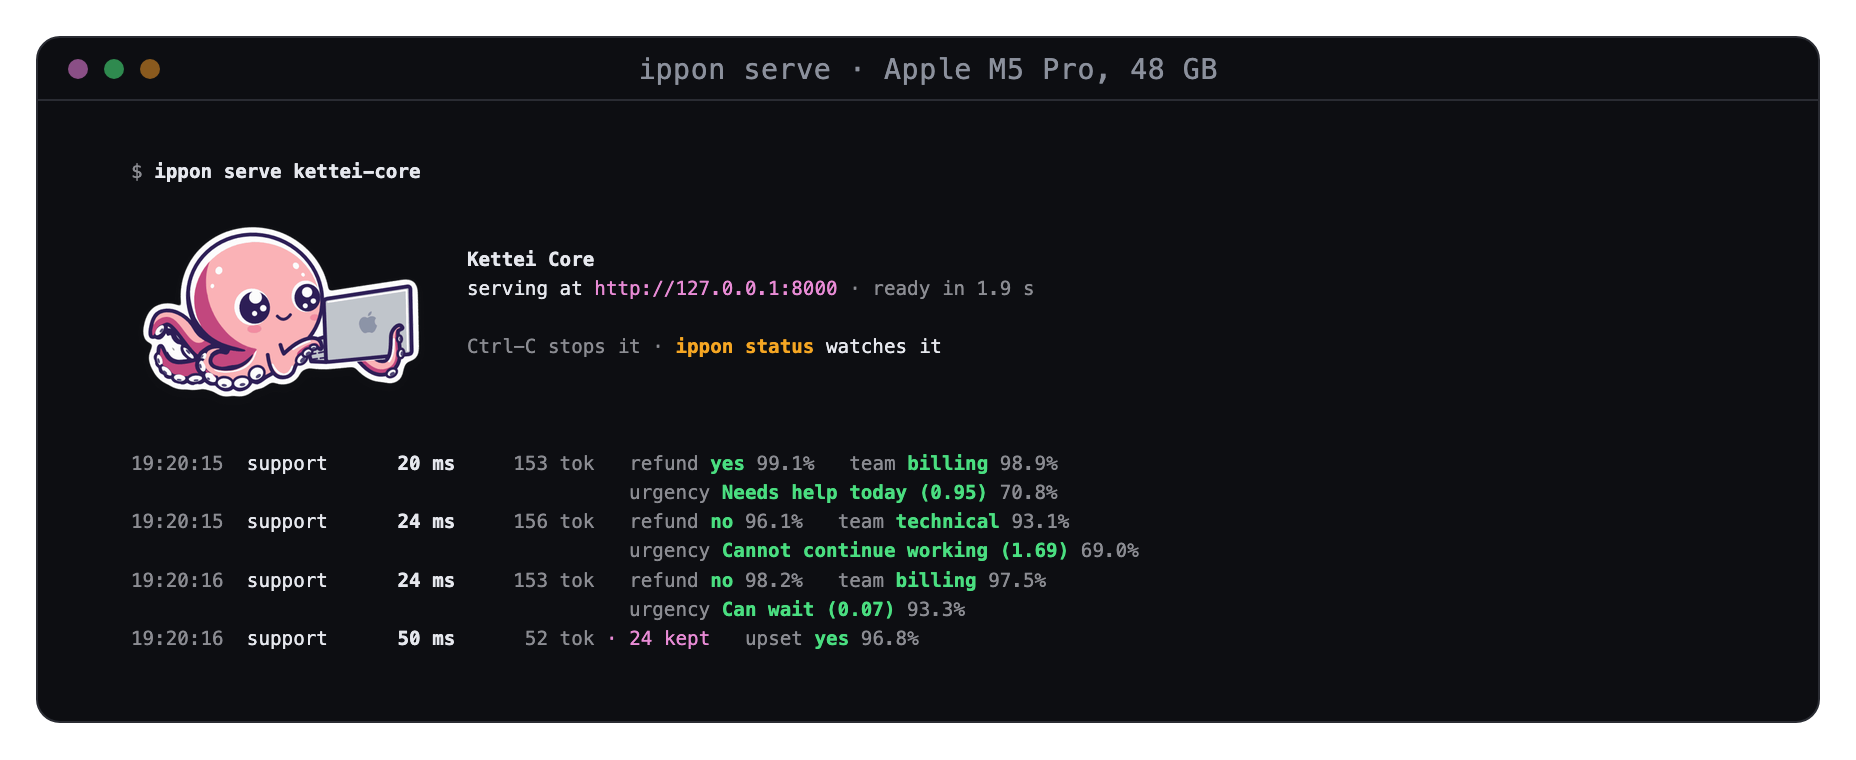
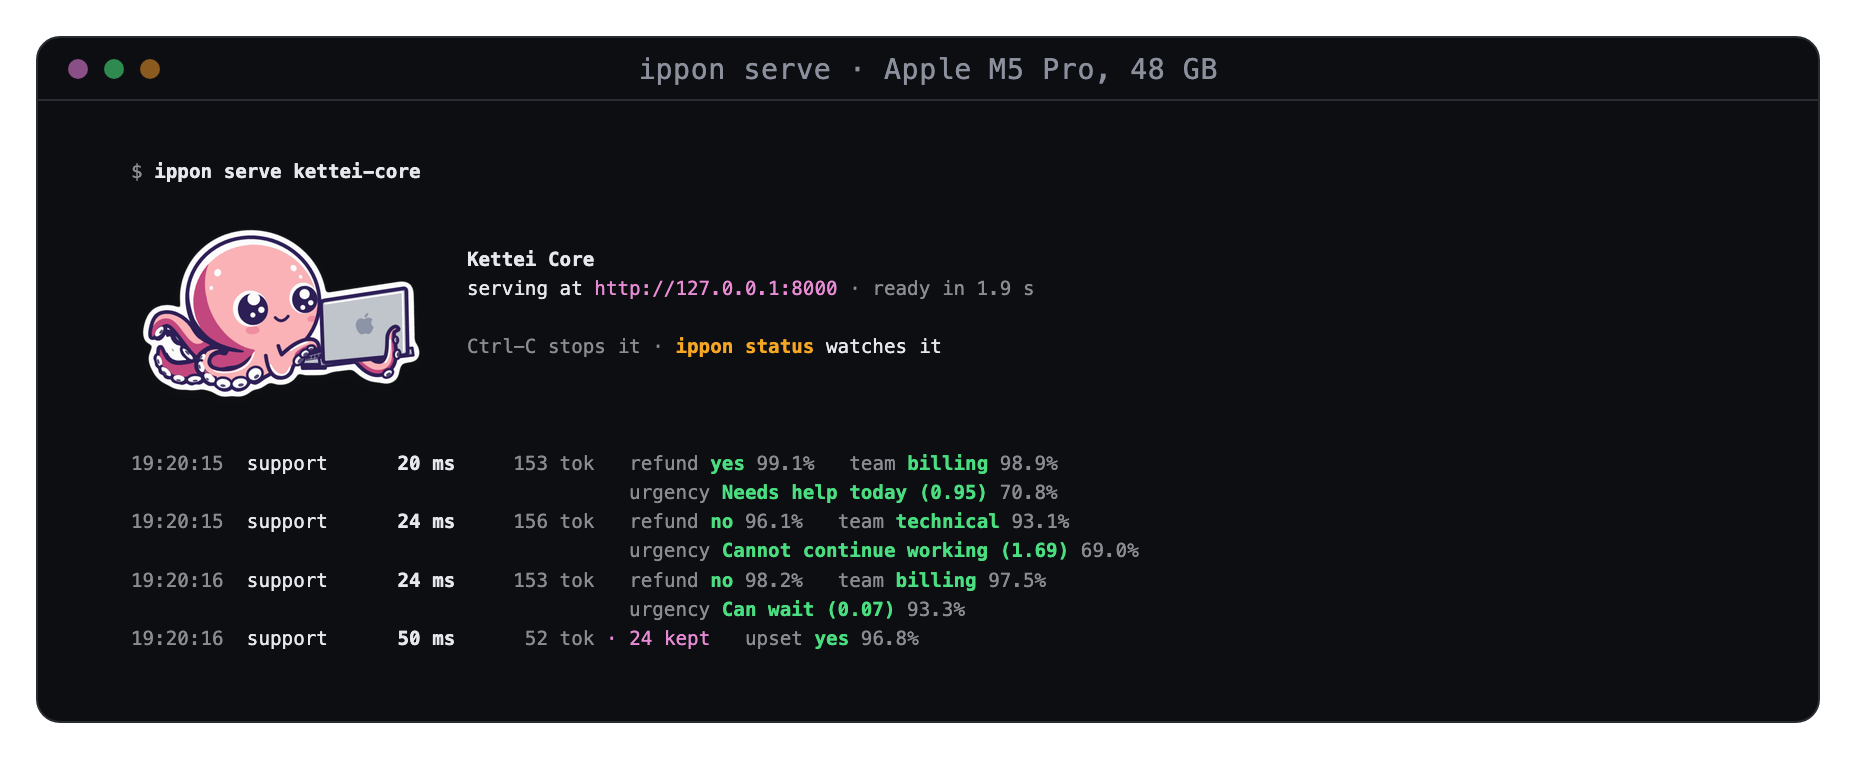
Draw Inky's laptop as a MacBook, base and all
The drawing's keyboard is a small upright sliver beside the lid with
three rows of dashes for keys, and nothing shows under the lid, so the
laptop read as a lid on its own. scripts/banner.py now draws a
MacBook's base in its place: on Inky's side of the lid, a silver deck
seen nearly flat, with its front edge and a dark keyboard well under
his typing arm, and under the lid, the base's back edge the hinge sits
on. assets/inky.svg stays the brand's drawing unchanged. The README
banner, the terminal's PNG and the serve screenshot show the new base.

Changed region(s): [[0.0625, 0.3026, 0.25, 0.5145]]

diff --git a/scripts/banner.py b/scripts/banner.py
@@ -8,12 +8,13 @@ brand.TAGLINE, is in a monospaced face.
 
 Inky is assets/inky.svg, Sqwish's drawing with all its poses in one file, copied unchanged from the console
 (web/brand/inky.svg in decisionone-workbench). When the drawing changes, copy it again from there rather than editing it
-here. The banner sets the laptop pose, puts the Apple logo on the lid in place of the drawing's octopus (APPLE) and
-moves the arm that holds the lid to its right edge, clear of the logo, hides the ground shadow and crops the drawing to
-the scene, then cuts it out as a sticker: a white keyline grown round its silhouette, a hairline and a soft shadow,
-tilted a little. Inky blinks as it does in the console, and its typing arm is held still so the README stays calm.
-FONTS_DIR holds Source Code Pro's variable font from github.com/google/fonts (OFL), as SourceCodePro.ttf: the tagline is
-outlined from it, since GitHub loads no fonts inside a README image.
+here. The banner sets the laptop pose, draws a MacBook's base in place of the drawing's small keyboard (DECK, HINGE),
+puts the Apple logo on the lid in place of the drawing's octopus (APPLE) and moves the arm that holds the lid to its
+right edge, clear of the logo, hides the ground shadow and crops the drawing to the scene, then cuts it out as a
+sticker: a white keyline grown round its silhouette, a hairline and a soft shadow, tilted a little. Inky blinks as it
+does in the console, and its typing arm is held still so the README stays calm. FONTS_DIR holds Source Code Pro's
+variable font from github.com/google/fonts (OFL), as SourceCodePro.ttf: the tagline is outlined from it, since GitHub
+loads no fonts inside a README image.
 """
 
 import re
@@ -54,6 +55,30 @@ APPLE = "".join(
         'M.2-5.4C.1-7.2 1.4-8.6 3-8.8 3.1-7 1.8-5.6.2-5.4z"/>',
     )
 )
+# The laptop's keyboard as the drawing has it, a small upright sliver with three rows of dashes, and the MacBook base
+# the banner draws instead: on Inky's side of the lid, the deck seen nearly flat (its front edge, its silver top, the
+# keyboard's dark well and its keys), and under the lid, the base's back edge the hinge sits on.
+KEYBOARD = (
+    '<path class="lf" d="M166 137.4l-18.4 4.8 3.8 18 14.6 1.4z" fill="#C0C5CB"/>\n'
+    '      <path d="M150.6 148.4l4.4-.8m2.8-.6 4.8-.8m-10.8 7.2 4.4-.6m2.8-.4 4.4-.6M153 158.2l4.4-.4m2.8-.2 3.8-.2" '
+    'stroke="#2E1F57" stroke-width="1.5" stroke-linecap="round"/>'
+)
+DECK = "".join(
+    (
+        '<path class="lf" d="M145.2 162.4l21.8 1.1v3l-21.6-.9z" fill="#8794A5"/>',
+        '<path class="lf" d="M167 148.4l-20.4 6-1.4 8 21.8 1.1z" fill="#C0C5CB"/>',
+        '<path d="M165.4 150.6l-15.8 4.7-.7 3.4 16.6-1.7z" fill="#2E1F57"/>',
+        '<path d="M150.2 157.4l15.2-1.6m-15-1.1 15.1-2.9M154.4 154l-.5 4m4-5.1-.4 4.7m4.1-5.9-.3 5.3" stroke="#8794A5"',
+        ' stroke-width=".7"/>',
+    )
+)
+LID_PATH = '<path class="lf" d="M166.4 105q'
+HINGE = "".join(
+    (
+        '<path d="M161.6 156.4l90.6-4.8.6 7.2-90.4 6.4z" fill="#C0C5CB" stroke="#2E1F57" stroke-width="2.6"',
+        ' stroke-linejoin="round"/><path d="M164 162.6l86.4-5.6" stroke="#8794A5" stroke-width="1.4"/>',
+    )
+)
 TILT = -3  # degrees the sticker is turned, as a sticker is never quite straight
 TEXT_X = 644  # banner units from the left where the name and the tagline start
 
@@ -71,6 +96,8 @@ def inky(x: float, y: float, width: float) -> str:
     svg = swap(svg, 'class="octo-inky"', 'class="octo-inky" data-pose="laptop"')
     svg = swap(svg, "width: 100%; height: auto; ", "")  # placed by the banner, not sized by a page
     svg = swap(svg, LID_LOGO, APPLE)
+    svg = swap(svg, KEYBOARD, DECK)
+    svg = swap(svg, LID_PATH, HINGE + LID_PATH)
     # the back arm, and the clip that tucks it under the lid, moved to the lid's right edge, so it holds the laptop by
     # its side and leaves the logo clear
     svg = swap(svg, '<g clip-path="url(#inky-lgo)">', '<g clip-path="url(#inky-lgo)" transform="translate(16 0)">')
